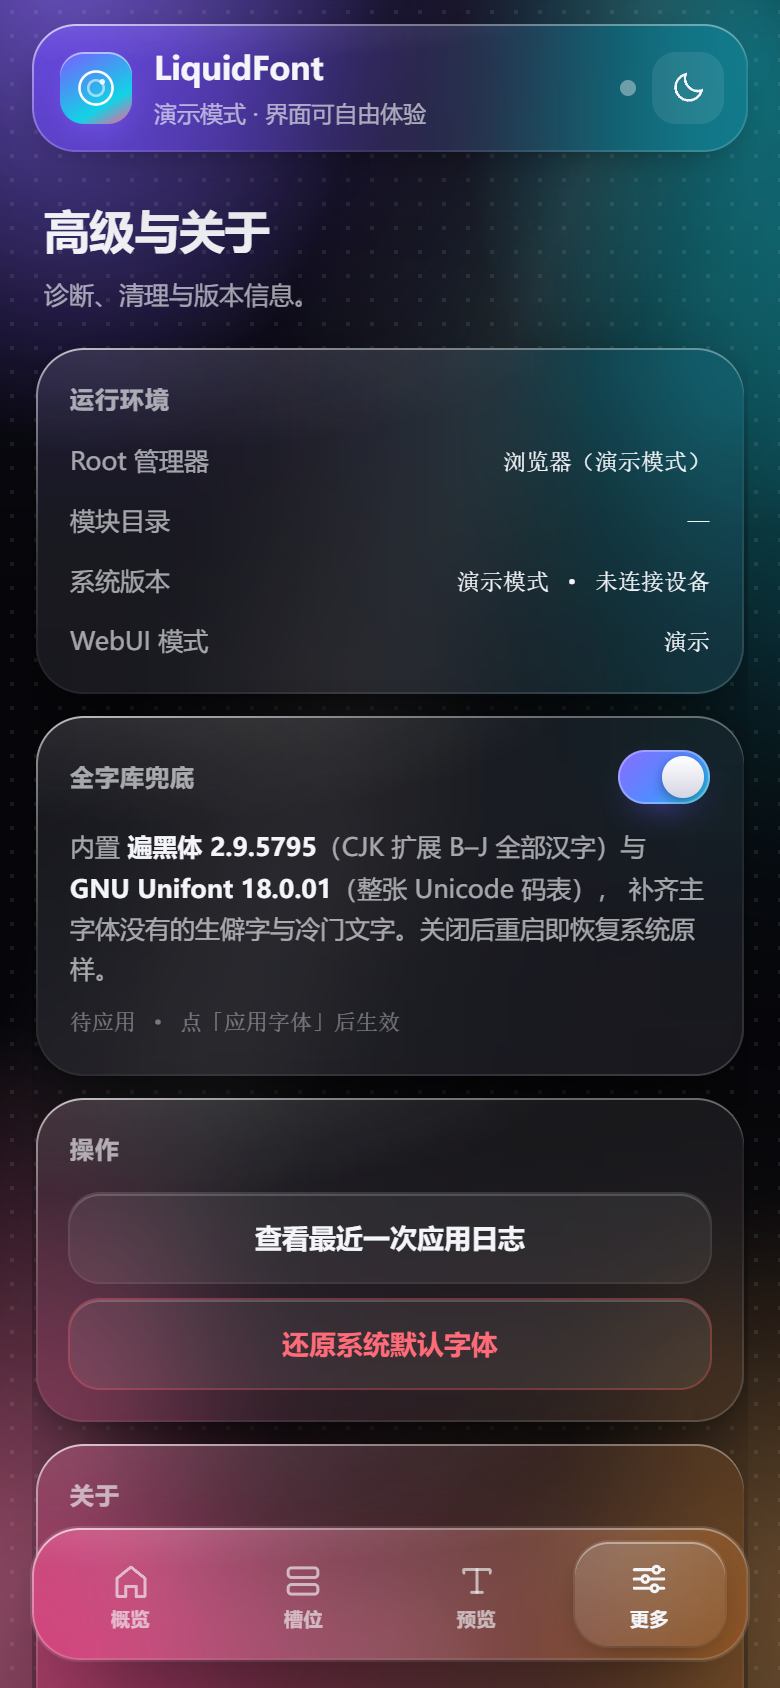
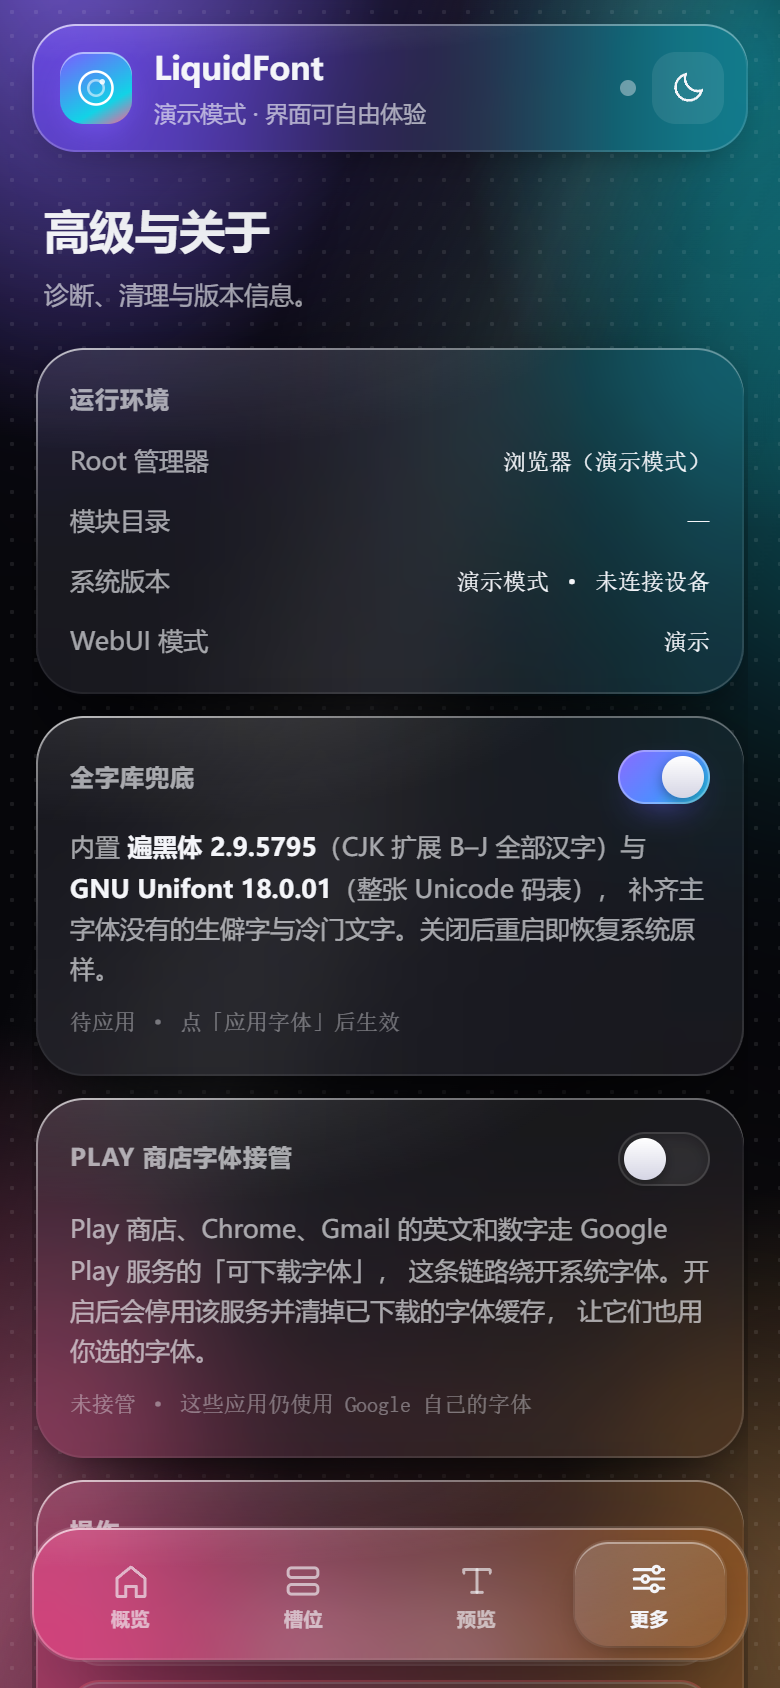
feat: 新增 Play 商店字体接管开关
Play 商店 / Chrome / Gmail 的英文与数字走 GMS 的 Downloadable Fonts，
绕开 system/fonts，光换系统字体对它们无效。

- 新增 gms.sh：停用 com.google.android.gms 的 FontsProvider 与
  UpdateSchedulerService，清掉 /data/fonts 等已下载缓存，再重启相关应用
- 只清已知缓存路径，不做 find /data 全盘扫描
- 状态以 pm dump 里组件的真实 disabled 状态为准，标记文件只记用户意图
- WebUI「更多」页新增开关，四态文案：已接管 / 已开启但被系统重置 / 未接管 / 无 GMS
- uninstall.sh 卸载时自动恢复 GMS 组件，避免留下被停用的服务
- 版本 1.2.0

Changed region(s): [[0.0308, 0.6469, 0.9538, 0.9242], [0.1231, 0.9858, 0.8923, 1.0]]

diff --git a/webroot/assets/bridge.js b/webroot/assets/bridge.js
@@ -92,7 +92,11 @@
         applied: Object.values(slots).some((s) => s.set),
         rom: '演示模式 · 未连接设备',
         fallback: fbOn ? 'idle' : 'off',
-        fbVersions: { plangothic: '2.9.5795', unifont: '18.0.01' }
+        fbVersions: { plangothic: '2.9.5795', unifont: '18.0.01' },
+        gms: (() => {
+          const on = localStorage.getItem('lf.gms') === 'on';
+          return { flag: on ? 'on' : 'off', state: on ? 'taken' : 'normal' };
+        })()
       };
     }
 
@@ -100,12 +104,15 @@
       `if [ -d ${MODDIR} ]; then sh ${MODDIR}/apply.sh --status 2>/dev/null; ` +
       `else echo "missing=1"; fi; ` +
       `echo "@rom=$(getprop ro.build.version.oplusrom.display 2>/dev/null)"; ` +
-      `echo "@api=$(getprop ro.build.version.oplus.api 2>/dev/null)"`;
+      `echo "@api=$(getprop ro.build.version.oplus.api 2>/dev/null)"; ` +
+      `if [ -f ${MODDIR}/gms.sh ]; then sh ${MODDIR}/gms.sh status 2>/dev/null; ` +
+      `else echo "gms.state=missing"; fi`;
     const r = await exec(cmd);
     const slots = {};
     ['hans', 'hant', 'en', 'mono', 'emoji'].forEach((s) => (slots[s] = { set: false, size: 0 }));
     let applied = false, rom = '', missing = false, fallback = 'missing';
     const fbVersions = { plangothic: '', unifont: '' };
+    const gms = { flag: 'off', state: 'missing' };
     r.out.split('\n').forEach((line) => {
       const t = line.trim();
       if (!t) return;
@@ -115,13 +122,15 @@
       if (t.startsWith('fallback=')) return void (fallback = t.slice(9));
       if (t.startsWith('fb.plangothic_version=')) return void (fbVersions.plangothic = t.slice(22));
       if (t.startsWith('fb.unifont_version=')) return void (fbVersions.unifont = t.slice(19));
+      if (t.startsWith('gms.flag=')) return void (gms.flag = t.slice(9));
+      if (t.startsWith('gms.state=')) return void (gms.state = t.slice(10));
       const m = /^slot\.(\w+)=(set|empty)$/.exec(t);
       if (m) return void (slots[m[1]] = slots[m[1]] || { set: false, size: 0 }, (slots[m[1]].set = m[2] === 'set'));
       const n = /^size\.(\w+)=(\d+)$/.exec(t);
       if (n) return void (slots[n[1]] && (slots[n[1]].size = +n[2]));
       if (t === 'applied=1') applied = true;
     });
-    return { mode: missing ? 'missing' : 'native', slots, applied, rom, fallback, fbVersions, raw: r.out };
+    return { mode: missing ? 'missing' : 'native', slots, applied, rom, fallback, fbVersions, gms, raw: r.out };
   }
 
   /* ───────── 写入字体 ───────── */
@@ -213,6 +222,19 @@
     return { ok: r.code === 0, out: r.out || r.err || '' };
   }
 
+  /* ───────── Play 商店字体接管 ───────── */
+  // on  = 停用 GMS 的 FontsProvider / UpdateSchedulerService 并清字体缓存
+  // off = 重新启用（组件状态存在 package manager 里，重启不会丢）
+  async function setGms(on) {
+    if (!KSU) {
+      try { localStorage.setItem('lf.gms', on ? 'on' : 'off'); } catch (e) { /* ignore */ }
+      return { ok: true, out: '' };
+    }
+    const r = await exec(`sh ${MODDIR}/gms.sh ${on ? 'on' : 'off'}`, 120000);
+    const out = (r.out || r.err || '').trim();
+    return { ok: r.code === 0 && !/\[✗\]/.test(out), out };
+  }
+
   /* ───────── 应用 / 还原 ───────── */
   async function apply() {
     if (!KSU) {
@@ -247,7 +269,7 @@
   }
 
   global.LF = {
-    bridge: { MODE, MODDIR, status, write, readBytes, clear, clearAll, apply, lastLog, restore, setFallback, exec, toast },
+    bridge: { MODE, MODDIR, status, write, readBytes, clear, clearAll, apply, lastLog, restore, setFallback, setGms, exec, toast },
     bytesToB64,
     b64ToBytes
   };

diff --git a/webroot/assets/app.js b/webroot/assets/app.js
@@ -26,6 +26,7 @@
   const state = {
     fallback: 'idle',
     fbVersions: { plangothic: '', unifont: '' },
+    gms: { flag: 'off', state: 'missing' },
     mode: B.MODE,
     slots: {},
     meta: {},
@@ -248,9 +249,50 @@
     }
   }
 
+  function renderGms() {
+    const sw = $('#gms-sw');
+    if (!sw) return;
+    const g = state.gms || { flag: 'off', state: 'missing' };
+    const on = g.flag === 'on';
+    const missing = g.state === 'missing';
+
+    sw.setAttribute('aria-checked', on ? 'true' : 'false');
+    sw.disabled = missing;
+
+    let text;
+    if (missing) {
+      text = '未检测到 Google Play 服务';
+    } else if (on && g.state === 'taken') {
+      text = '已接管 · Play 商店 / Chrome / Gmail 已改用系统字体';
+    } else if (on) {
+      text = '已开启，但系统里仍是正常状态（可能被系统重置，重新切一次即可）';
+    } else {
+      text = '未接管 · 这些应用仍使用 Google 自己的字体';
+    }
+    $('#gms-state').textContent = text;
+  }
+
+  async function toggleGms() {
+    const on = $('#gms-sw').getAttribute('aria-checked') !== 'true';
+    $('#gms-sw').setAttribute('aria-checked', on ? 'true' : 'false');
+    setProgress(on ? '接管中…' : '恢复中…', 0.45);
+    try {
+      const r = await B.setGms(on);
+      setProgress(null);
+      if (!r.ok) throw new Error(r.out || '执行失败');
+      toast(on ? '已接管 Play 商店字体' : '已恢复 GMS 字体服务');
+      await refresh(true);
+    } catch (e) {
+      setProgress(null);
+      $('#gms-sw').setAttribute('aria-checked', on ? 'false' : 'true');
+      toast('切换失败：' + (e.message || e), 'err');
+    }
+  }
+
   function renderAll() {
     renderMini();
     renderFallback();
+    renderGms();
     renderSlots();
     updateStats();
     updateEnv();
@@ -266,6 +308,7 @@
       state.rom = st.rom || '';
       state.fallback = st.fallback || 'missing';
       state.fbVersions = st.fbVersions || state.fbVersions;
+      state.gms = st.gms || state.gms;
       renderAll();
       if (!quiet) toast(state.mode === 'demo' ? '演示模式：操作不会写入设备' : '状态已刷新');
     } catch (e) {
@@ -497,16 +540,19 @@
       box.textContent = await B.lastLog();
     });
 
-    const fbSw = $('#fb-sw');
-    if (fbSw) {
-      fbSw.addEventListener('click', toggleFallback);
-      fbSw.addEventListener('keydown', (e) => {
+    const bindSwitch = (sel, fn) => {
+      const el = $(sel);
+      if (!el) return;
+      el.addEventListener('click', fn);
+      el.addEventListener('keydown', (e) => {
         if (e.key === 'Enter' || e.key === ' ') {
           e.preventDefault();
-          toggleFallback();
+          fn();
         }
       });
-    }
+    };
+    bindSwitch('#fb-sw', toggleFallback);
+    bindSwitch('#gms-sw', toggleGms);
 
     $('#restore-btn').addEventListener('click', async () => {
       if (!confirm('还原系统默认字体？会删除模块内所有字体文件。')) return;

diff --git a/webroot/index.html b/webroot/index.html
@@ -173,6 +173,19 @@ Liquid Glass 0123456789
       </div>
 
       <div class="card glass ring reveal" style="--i:3">
+        <div class="card-head">
+          <h3 class="card-title">Play 商店字体接管</h3>
+          <button class="sw" id="gms-sw" role="switch" aria-checked="false" aria-label="Play 商店字体接管"><i></i></button>
+        </div>
+        <p class="hint">
+          Play 商店、Chrome、Gmail 的英文和数字走 Google Play 服务的「可下载字体」，
+          这条链路绕开系统字体。开启后会停用该服务并清掉已下载的字体缓存，
+          让它们也用你选的字体。
+        </p>
+        <p class="hint dim" id="gms-state">—</p>
+      </div>
+
+      <div class="card glass ring reveal" style="--i:4">
         <h3 class="card-title">操作</h3>
         <div class="stack">
           <button class="btn ghost wide" id="log-btn">查看最近一次应用日志</button>
@@ -180,16 +193,16 @@ Liquid Glass 0123456789
         </div>
       </div>
 
-      <pre class="log glass ring reveal" id="log-box" style="--i:4" hidden></pre>
+      <pre class="log glass ring reveal" id="log-box" style="--i:5" hidden></pre>
 
-      <div class="card glass ring reveal" style="--i:5">
+      <div class="card glass ring reveal" style="--i:6">
         <h3 class="card-title">关于</h3>
         <p class="about">
           <b>LiquidFont</b> 是一个面向 ColorOS 16 / 17 的字体替换模块，
           内置五槽位配置、全液态玻璃 WebUI，以及遍黑体 / GNU Unifont 两套开源全字库兜底。
         </p>
         <dl class="kv">
-          <div><dt>版本</dt><dd id="about-ver">1.1.0</dd></div>
+          <div><dt>版本</dt><dd id="about-ver">1.2.0</dd></div>
           <div><dt>字体配置</dt><dd>ColorOS 17 (fonts.xml / base / ule)</dd></div>
           <div><dt>许可</dt><dd>GPL-3.0</dd></div>
         </dl>

diff --git a/build.py b/build.py
@@ -20,6 +20,7 @@ INCLUDE = [
     "module.prop",
     "customize.sh",
     "apply.sh",
+    "gms.sh",
     "uninstall.sh",
     "META-INF",
     "system",

diff --git a/README.md b/README.md
@@ -26,6 +26,8 @@ LiquidFont 把「换字体」这件事做成了一件顺手的事：把 `.ttf` /
   新增的 `OPSans-En`，避免某些界面英文没换干净。
 - **内置全字库兜底** — 打包了遍黑体（CJK 扩展 B–J 全汉字）与 GNU Unifont 18.0.01
   （整张 Unicode 码表），主字体没覆盖的生僻字、冷门文字不会再变成豆腐块；可在 WebUI 里一键关掉。
+- **Play 商店也不放过** — 停用 Google Play 服务的可下载字体链路并清缓存，
+  Play 商店 / Chrome / Gmail 的英文和数字才会真正跟着换（这几家原本绕开 `system/fonts`）。
 - **安全** — 只做 overlay 挂载，删除模块即完整还原；提供一键还原与日志查看。
 
 | 槽位 | 作用 | 目标文件 |
@@ -71,6 +73,10 @@ LiquidFont 把「换字体」这件事做成了一件顺手的事：把 `.ttf` /
 - 应用字体后必须**重启**，字体是开机时被系统读进缓存的。
 - 全字库兜底默认开启。关掉后重启即恢复系统原样；它不会覆盖你自己选的五槽位字体，
   只影响主字体没覆盖到的字符。
+- **Play 商店 / Chrome / Gmail 的英文数字没变？** 这几家的字体走 Google Play 服务的
+  「可下载字体」，绕开 `system/fonts`，所以换系统字体对它们无效。去「更多」页打开
+  **Play 商店字体接管**：它会停用 `FontsProvider` 与 `UpdateSchedulerService`、
+  清掉已下载的字体缓存，然后重启相关应用即可。默认关闭，需要时再开。
 - 不同 ColorOS 版本的字体清单略有差异，`apply.sh` 只会写设备上真实存在的文件，
   不会往模块里塞用不上的副本。
 
@@ -81,6 +87,7 @@ LiquidFont/
 ├── module.prop                 # 模块信息
 ├── customize.sh                # 刷入脚本：环境检查 / 继承旧字体 / 补齐派生 XML
 ├── apply.sh                    # 应用脚本：五槽位 → system/fonts（WebUI 也调用它）
+├── gms.sh                      # Play 商店字体接管：停用 GMS 字体服务 + 清缓存
 ├── uninstall.sh                # 卸载清理
 ├── FONTS/                      # 槽位目录（hans/hant/en/mono/emoji.ttf）
 ├── FALLBACK/                   # 内置全字库（遍黑体 / Unifont + 各自许可证）
@@ -116,6 +123,9 @@ python build.py --no-zip   # 只做检查
 - **全字库为什么要改 fonts.xml**：Unifont 是全新字库，系统里没有它的位置，只能在 `familyset`
   末尾追加两个字族。追加在最后是刻意的——Android 按声明顺序找字，排最后意味着只有前面
   所有字体都不认识的码位才会轮到它，属于纯增量，不会改变已有字形的渲染。
+- **为什么 Play 商店要单独处理**：GMS 的 `FontsProvider` 通过 Downloadable Fonts 直接把
+  字体喂给应用，进程里的字体上下文和系统字体是两套。所以光改 `system/fonts` 没用，
+  必须把这个提供器停掉，再清掉 `/data/fonts` 等缓存，应用才会回落到系统字体。
 - **WebUI 怎么把文件写进去**：KernelSU 只给了 `ksu.exec`，没有文件 API。所以前端把字体
   base64 分块（64 KB/块，避开 argv 128 KB 上限）用 `printf | base64 -d >>` 追加写，
   最后用 `wc -c` 校验字节数，不一致就报错。
@@ -126,6 +136,8 @@ python build.py --no-zip   # 只做检查
   可能读不到字体而回退默认字体（FontMM 用原生 warmUpCache 解决，本模块暂未实现）。
 - 不做可变字体 `wght` 轴重写。字体自带的字重轴如果与系统的 100–900 对不上，
   表现是粗细层次不自然，需要在字体侧处理。
+- 开启「Play 商店字体接管」后，依赖 Google 可下载字体的应用会回落到系统字体；
+  少数把字体当资源的应用可能需要重新打开一次。关掉开关即可恢复原状。
 
 ## 致谢
 

diff --git a/CHANGELOG.md b/CHANGELOG.md
@@ -1,5 +1,17 @@
 # 更新日志
 
+## v1.2.0
+
+Play 商店的英文和数字也能跟着换了。
+
+- 新增「Play 商店字体接管」开关：停用 Google Play 服务的 `FontsProvider` 与
+  `UpdateSchedulerService`，并清掉已下载的字体缓存，让 Play 商店 / Chrome / Gmail
+  的英文与数字回落到系统字体（这几家的可下载字体原本绕开 `system/fonts`）
+- 只清已知的字体缓存路径，不做 `find /data` 全盘扫描
+- 开关状态以系统里组件的真实状态为准，不只信标记文件
+- 卸载模块时自动把 GMS 字体服务放回去，不会留下被停用的组件
+- 新增 `gms.sh`，支持 `status` / `on` / `off`
+
 ## v1.1.0
 
 内置全字库，生僻字不再缺字。
